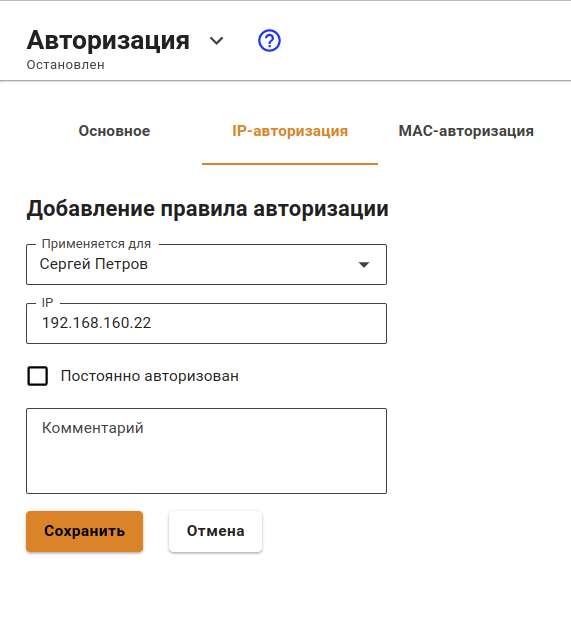
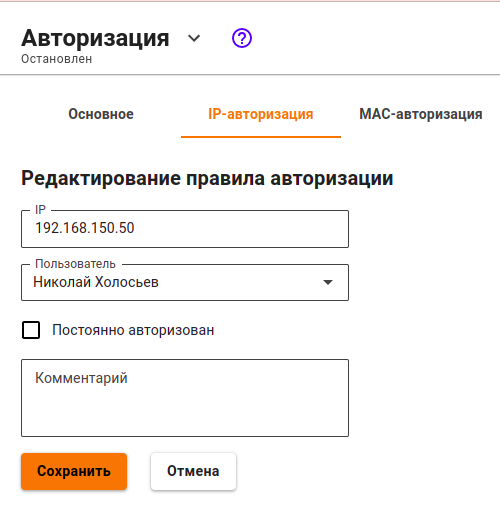
Авторизация по IP. Добавлены правки от Андрея Карелина

diff --git a/settings/users/authorization/ip.md b/settings/users/authorization/ip.md
@@ -12,19 +12,36 @@ dateCreated: '2021-04-02T07:22:21.154Z'
 
 ## Настройка авторизации по IP
 
-Данный тип авторизации предполагает, что пользователь будет авторизовываться \
-по IP-адресу его компьютера.
+Авторизация по IP подразумевает, что авторизованный доступ до Интернет-ресурсов пользователь будет получать без ввода логина и пароля, а просто иницировав подключение этим ресурсам.
 
-Чтобы авторизовать компьютер пользователя по IP-адресу, необходимо выполнить следующие действия:
+Также можно авторизовывать сетевые устройства (такие как камеры видеонаблюдения, сетевые принтеры и прочее), которые находятся в разных с Ideco UTM широковещательных доменах, и которым требуется доступ в Интернет.
 
-1\. Перейдите в раздел **Пользователи -> Авторизация -> IP-авторизация**.
+Чтобы авторизовать пользователя по IP-адресу:
 
-2\. Создайте правило-связку **IP-адрес == Пользователь**, как показано на скриншоте.
+1\. Создайте или импортируйте пользователя из Active Directory, который будет авторизовываться по IP.
+
+![](../../../.gitbook/assets/ip-authorization-user.png)
+
+2\. Перейдите в раздел **Пользователи -> Авторизация -> IP-авторизация**.
+
+3\. Создайте правило-связку **IP-адрес <--> Пользователь**, как показано на скриншоте.
 
 ![](../../../.gitbook/assets/ip-authorization-rule.png)
 
 {% hint style="info" %}
-Если в качестве пользователя выступает стороннее сетевое оборудование (видеокамеры, сервера и прочее) стоит настроить **Постоянную авторизацию**, чтобы оборудование было всегда авторизовано.
+Если в качестве пользователя выступает стороннее сетевое оборудование (видеокамеры, сервера и прочее) стоит настроить **Постоянную авторизацию**,\
+при этом сессия пользователя будет создана после загрузки UTM и сетевому оборудованию не нужно делать запрос в Интернет.
+
+Это требуется, например, для ресурсов [опубликованных через DNAT](../../publishing-resources/portmapping.md).
+{% endhint %}
+
+После того, как пользователь делает запрос в Интернет, на UTM будет автоматически создана сессия с типом авторизации `IP` в разделе **Мониторинг -> Авторизованные пользователи**.
+
+![](../../../.gitbook/assets/ip-authorization-result.png)
+
+{% hint style="warning" %}
+У сессий с типом авторизации `IP` не заполняется поле **MAC-адресс**, потому что\
+при данном типе авторизации уже имеется IP-адрес, необходимый для создания сессии авторизации.
 {% endhint %}
 
 {% hint style="info" %}
@@ -37,9 +54,11 @@ dateCreated: '2021-04-02T07:22:21.154Z'
 
 Вы можете добавлять пользователей из диапазона IP-адресов (например, из сети, раздаваемой точками доступа по Wi-Fi). Для этого необходимо:
 
-1\. Выбрать группу в дереве пользователей, в которую вы хотите добавить устройства.
+1\. Создать отдельную группу в дереве пользователей.
 
-2\. Во вкладке **Основное** нажать кнопку **Создать пользователей**.
+2\. Выбрать созданную группу. В неё будут создаваться пользователи для устройств.
+
+3\. Во вкладке **Основное** нажмите кнопку **Создать пользователей**.
 
 Откроется окно с настройками создаваемых пользователей. Заполните следующие поля:
 
@@ -55,8 +74,17 @@ dateCreated: '2021-04-02T07:22:21.154Z'
 
 ![](../../../.gitbook/assets/mass-user-creating.gif)
 
+{% hint style="info" %}
 В случае, если некоторые IP-адреса из диапазона уже используются другими пользователями Ideco UTM, они будут пропущены при создании.
+{% endhint %}
 
-Пользователи будут созданы с настройками, наследуемыми от группы и указанным IP-адресом. Помимо дерева пользователей, в разделе **Пользователи -> Авторизация -> IP-авторизация** будут автоматически созданы правила с IP-авторизацией для каждого пользователя отдельно, как представлено на скриншоте ниже:
+Пользователи будут созданы с настройками, наследуемыми от группы и указанным\
+IP-адресом. Помимо дерева пользователей, в разделе **Пользователи -> Авторизация ->**\
+**IP-авторизация** будут автоматически созданы правила с IP-авторизацией для каждого пользователя отдельно, как представлено на скриншоте:
 
 ![](../../../.gitbook/assets/result-mass-user-creating.png)
+
+{% hint style="warning" %}
+Если у Вас используется авторизации по IP со статической привязкой в DHCP,\
+то предпочтительно будет перенести такие правила на [авторизацию по MAC-адресу](./mac.md).  
+{% endhint %}
